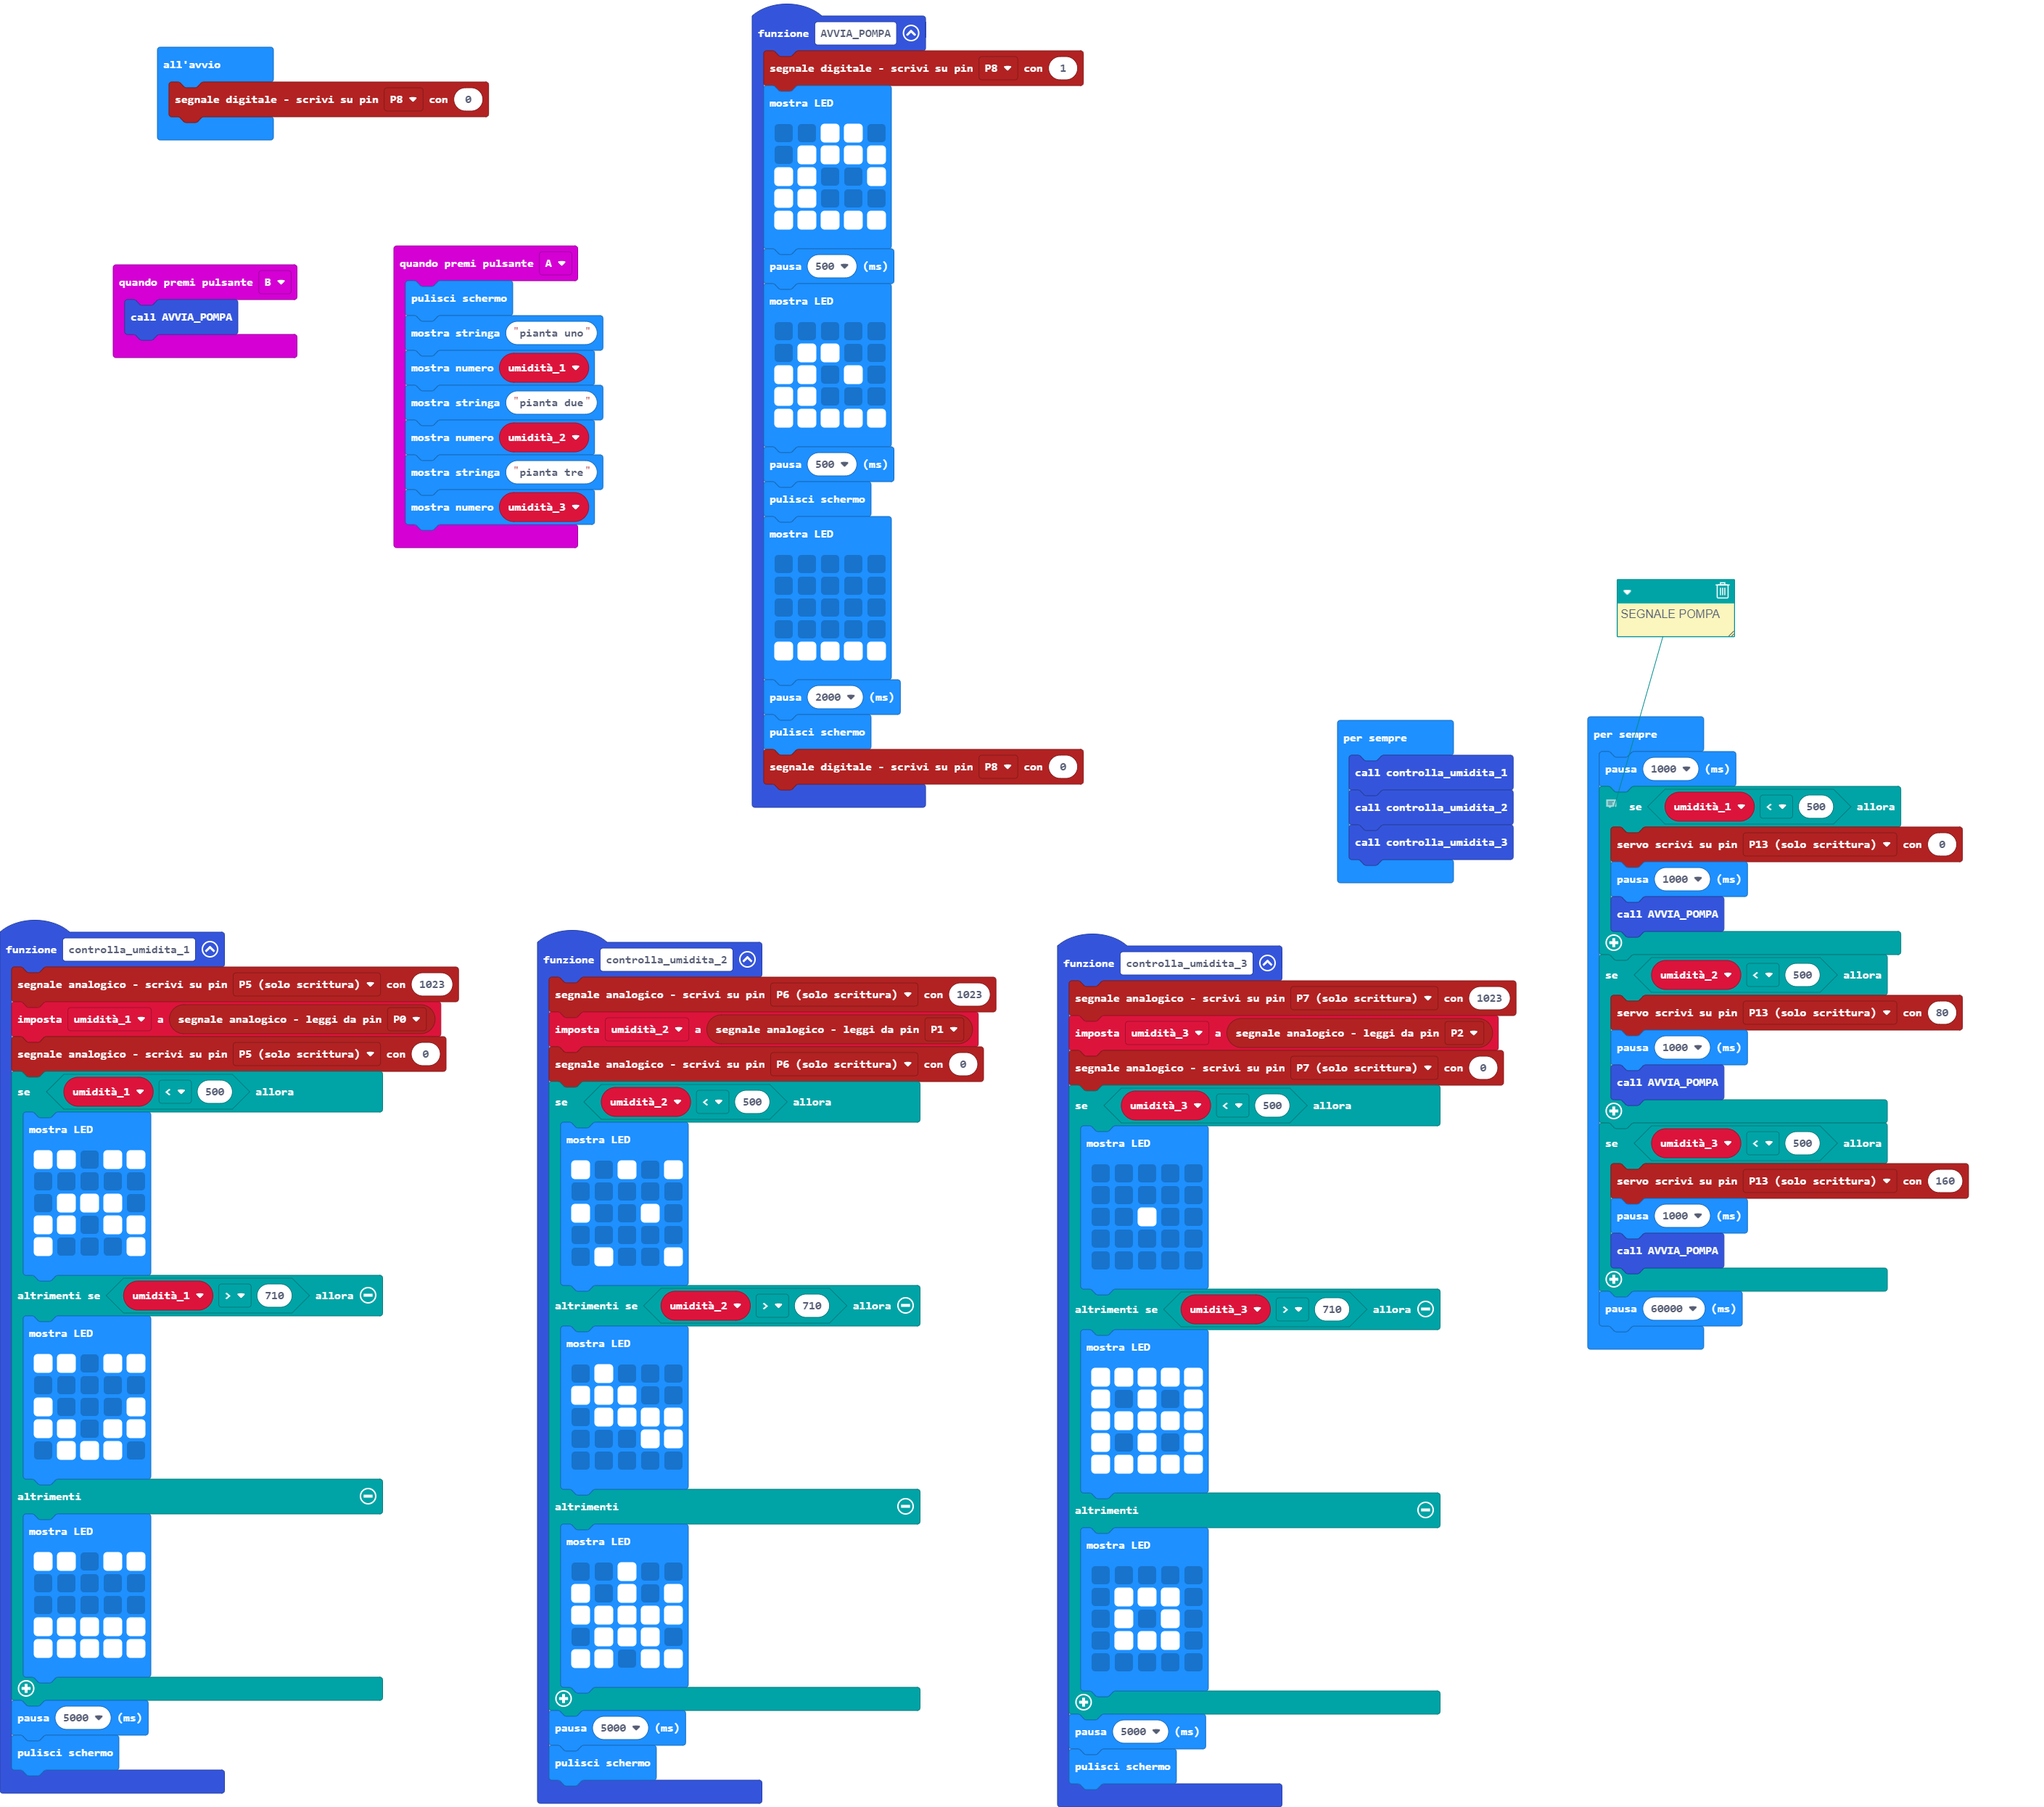
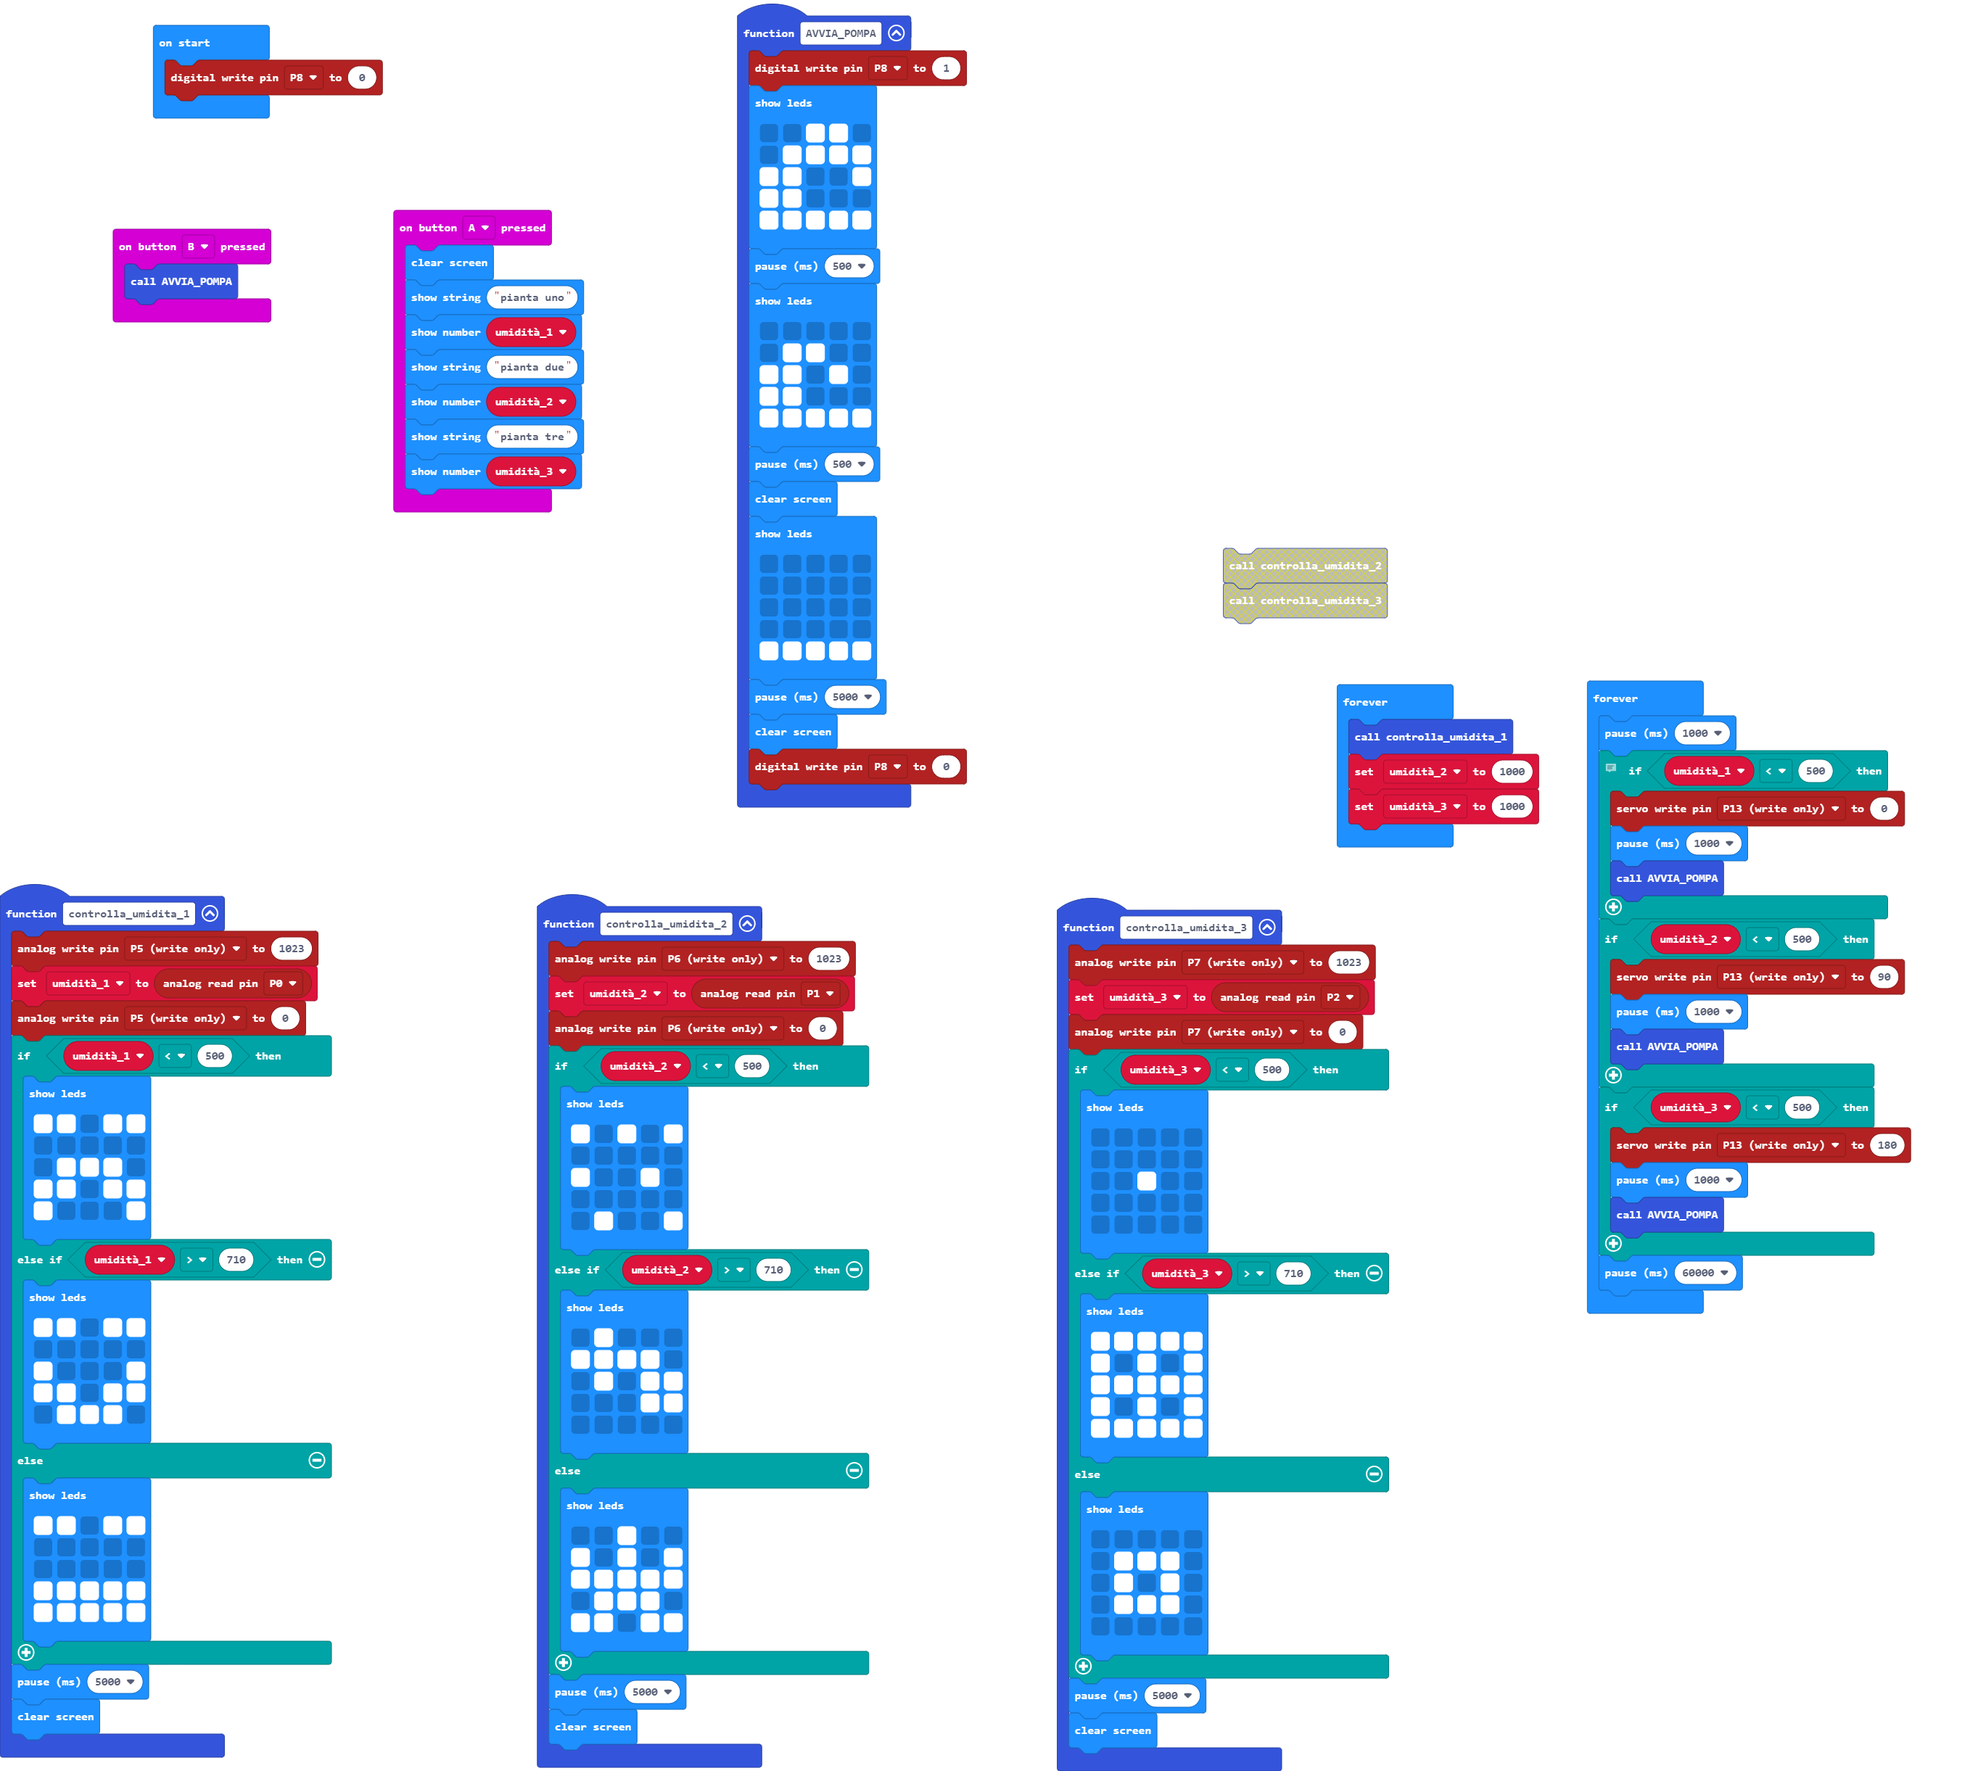
Update main.blocks, main.ts

diff --git a/main.ts b/main.ts
@@ -77,8 +77,8 @@ function controlla_umidita_2 () {
     } else if (umidità_2 > 710) {
         basic.showLeds(`
             . # . . .
-            # # # . .
-            . # # # #
+            # # # # .
+            . # . # #
             . . . # #
             . . . . .
             `)
@@ -129,7 +129,7 @@ function AVVIA_POMPA () {
         . . . . .
         # # # # #
         `)
-    basic.pause(2000)
+    basic.pause(5000)
     basic.clearScreen()
     pins.digitalWritePin(DigitalPin.P8, 0)
 }
@@ -142,8 +142,8 @@ let umidità_3 = 0
 pins.digitalWritePin(DigitalPin.P8, 0)
 basic.forever(function () {
     controlla_umidita_1()
-    controlla_umidita_2()
-    controlla_umidita_3()
+    umidità_2 = 1000
+    umidità_3 = 1000
 })
 basic.forever(function () {
     basic.pause(1000)
@@ -154,12 +154,12 @@ basic.forever(function () {
         AVVIA_POMPA()
     }
     if (umidità_2 < 500) {
-        pins.servoWritePin(AnalogPin.P13, 80)
+        pins.servoWritePin(AnalogPin.P13, 90)
         basic.pause(1000)
         AVVIA_POMPA()
     }
     if (umidità_3 < 500) {
-        pins.servoWritePin(AnalogPin.P13, 160)
+        pins.servoWritePin(AnalogPin.P13, 180)
         basic.pause(1000)
         AVVIA_POMPA()
     }
